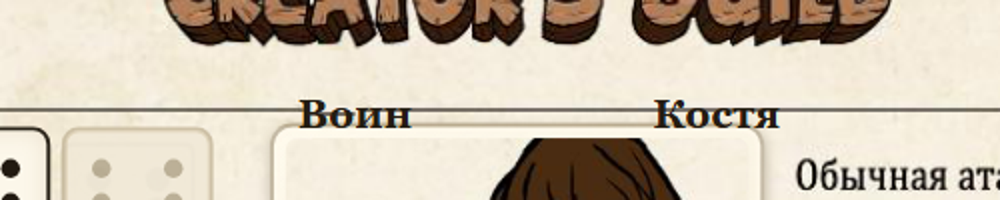
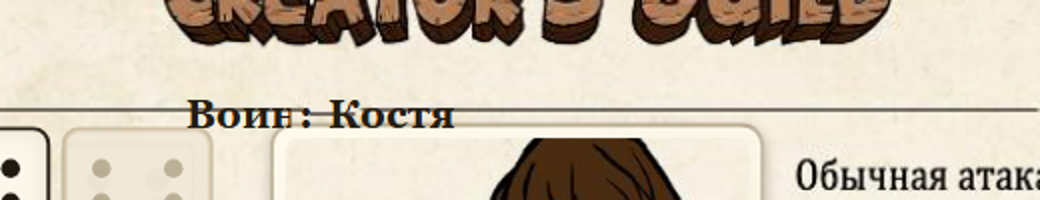
Hero Kids: класс и имя одной строкой, как на заполненном листе

diff --git a/desktop-host/extensions/herokids/styles.css b/desktop-host/extensions/herokids/styles.css
@@ -1,4 +1,4 @@
-/* Hero Kids — лист персонажа и карточки снаряжения */
+/* Hero Kids — лист персонажа и карточки снаряжения */
 
 :root {
   --ink: #241d12;
@@ -90,8 +90,44 @@ body:not(.is-gm) .gmOnly { display: none !important; }
   text-align: center;
   letter-spacing: 0.2px;
 }
-.class-name { left: 34.0%; width: 16.4%; }
-.hero-name { left: 51.0%; width: 16.4%; }
+.name-row {
+  position: absolute;
+  left: 34.0%;
+  top: 19.9%;
+  width: 34.0%;
+  height: 4.4%;
+  display: flex;
+  align-items: center;
+  z-index: 12;
+}
+.name-row .name {
+  position: static;
+  left: auto;
+  top: auto;
+  width: auto;
+  height: 100%;
+  text-align: left;
+  padding: 0 2px;
+}
+.name-row .class-name {
+  flex: 0 0 auto;
+  field-sizing: content;
+  min-width: 1ch;
+  max-width: 16%;
+}
+.name-colon {
+  flex: 0 0 auto;
+  padding: 0 5px 0 1px;
+  font-family: Georgia, 'Times New Roman', serif;
+  font-weight: 700;
+  font-size: 21px;
+  color: var(--ink);
+  pointer-events: none;
+}
+.name-row .hero-name {
+  flex: 1 1 auto;
+  min-width: 0;
+}
 .name[readonly] { cursor: default; }
 .name:not([readonly]) {
   background: transparent;
@@ -115,6 +151,10 @@ body:not(.is-gm) .gmOnly { display: none !important; }
 .sheet.editing .name:not([readonly]) {
   border-color: rgba(138, 106, 26, 0.55);
   background: rgba(255, 252, 240, 0.35);
+}
+.name-row input.name {
+  top: auto;
+  height: 100%;
 }
 
 /* Кубики пулов */
@@ -1343,6 +1383,8 @@ body:not(.is-gm) .gmOnly { display: none !important; }
   .card-preview-wrap { width: 340px; height: 477px; }
   .item-card { transform: scale(0.805); }
 }
+
+
 
 
 

diff --git a/desktop-host/extensions/herokids/index.html b/desktop-host/extensions/herokids/index.html
@@ -1,4 +1,4 @@
-<!doctype html>
+<!doctype html>
 <html lang="ru">
   <head>
     <meta charset="utf-8" />
@@ -10,8 +10,11 @@
     <div class="app" id="app">
       <div class="stage" id="stage">
         <div class="sheet hero" id="sheet">
-          <input id="classInput" class="name class-name" maxlength="30" readonly aria-label="Класс" placeholder="Класс" />
-          <input id="nameInput" class="name hero-name" maxlength="40" readonly aria-label="Имя" placeholder="Имя героя" />
+          <div class="name-row">
+            <input id="classInput" class="name class-name" maxlength="30" readonly aria-label="Класс" placeholder="Класс" />
+            <span class="name-colon" aria-hidden="true">:</span>
+            <input id="nameInput" class="name hero-name" maxlength="40" readonly aria-label="Имя" placeholder="Имя героя" />
+          </div>
 
           <div class="pools" id="pools"></div>
           <div class="health" id="health"></div>
@@ -245,6 +248,7 @@
     <script type="module" src="app.js"></script>
   </body>
 </html>
+
 
 
 

diff --git a/docs/hero-kids/README.md b/docs/hero-kids/README.md
@@ -180,7 +180,7 @@ cost = melee + armor + (ranged ? ranged + 1 : 0) + (magic ? magic + 1 : 0)
 Основа — `card-hero-blank.png` (пустая карточка со стр. 26) в качестве фона
 1123 × 792. Поверх — абсолютно позиционированные элементы:
 
-- класс и имя — два поля над линией, как на карточке из книги;
+- класс и имя — одна строка «Класс: Имя» на линии, как на карточке из книги;
 - 4 × 3 кубика: **все три видны**, выбранные яркие, невыбранные затемнённые;
   клик Мастера выделяет/затемняет, у игрока яркий кубик бросает пул;
 - здоровье: у героя всегда **3** клетки, у монстра — устанавливаемое 1–4
@@ -204,7 +204,7 @@ cost = melee + armor + (ranged ? ranged + 1 : 0) + (magic ? magic + 1 : 0)
 
 | Элемент            | Мастер                          | Игрок                          |
 | ------------------ | ------------------------------- | ------------------------------ |
-| Класс и имя        | редактирует прямо на карточке   | только читает                  |
+| Класс и имя        | одна строка «Класс: Имя» на линии | только читает                |
 | Тип листа          | герой / монстр                  | только герои                   |
 | Пул (0–3)          | клик по кубику: яркий/тёмный    | клик по яркому = бросок пула   |
 | Здоровье           | клик отмечает урон, отдых лечит | видит, бросать не может в нокауте |
@@ -289,8 +289,9 @@ export interface HeroKidsState {
 
 Дальше — обычное редактирование. «Дублировать» удобно для однотипных монстров.
 
-Класс и имя редактируются **прямо на карточке** двумя полями, выровненными
-по подчёркнутым линиям; у игрока оба поля только для чтения. Три текстовых
+Класс и имя редактируются **прямо на карточке** одной строкой «Класс: Имя»,
+как на заполненном листе: класс расширяется под текст, имя занимает остаток
+линии. У игрока оба поля только для чтения. Три текстовых
 блока (атака, действие, способность) в режиме редактирования становятся
 большими textarea; блок «Способность» поднят к самой надписи.
 
@@ -634,7 +635,7 @@ desktop-host/extensions/herokids/
 ## 10. Критерии готовности
 
 - [x] Мастер создаёт героя, заполняет все поля, выбирает навыки и предметы.
-- [x] Класс и имя выровнены по подчёркнутым линиям карточки.
+- [x] Класс и имя стоят одной строкой «Класс: Имя» на подчёркнутой линии.
 - [x] Поле «Способность» поднято к надписи; текстовые блоки расширены.
 - [x] Можно выбрать только один навык и один предмет.
 - [x] Четыре поля — два зелья, предмет, навык — одного крупного размера.
@@ -716,6 +717,7 @@ docs/hero-kids/
 
 Модуль регистрируется в `shared/plugins/builtins.ts`, подключается в обоих
 `BoardView` и проходит `typecheck`, `lint`, `build`, `test:server`.
+
 
 
 

diff --git a/desktop-host/extensions/herokids/README.md b/desktop-host/extensions/herokids/README.md
@@ -31,8 +31,8 @@
 - `📖 Предметы и навыки` — карточки предметов, выданные герою, и вкладка
   «Навыки и инвентарь» с описаниями и проверками. Доступна и игрокам.
 - `⋯` — дублировать лист, отдых, полное лечение, удалить.
-- Класс и имя редактируются прямо на карточке у Мастера, выровнены по линиям;
-  у игрока оба поля только для чтения.
+- Класс и имя — одна строка «Класс: Имя» на линии; у Мастера оба поля
+  редактируются, у игрока только для чтения.
 - Урон отмечается кликом по клеткам здоровья; порядок — справа налево.
 - Два зелья всегда на листе: клик переключает «в наличии / потрачено»,
   размер как у кубика.
